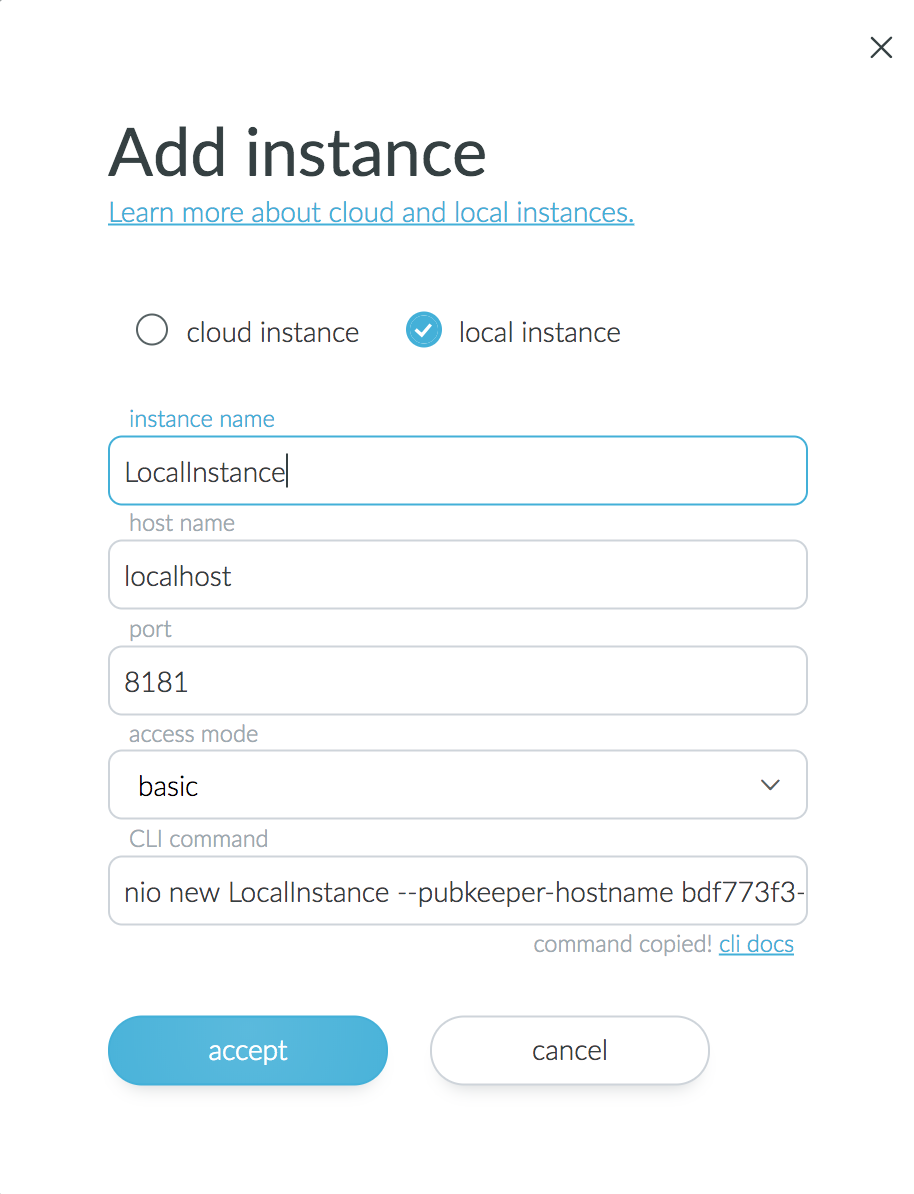
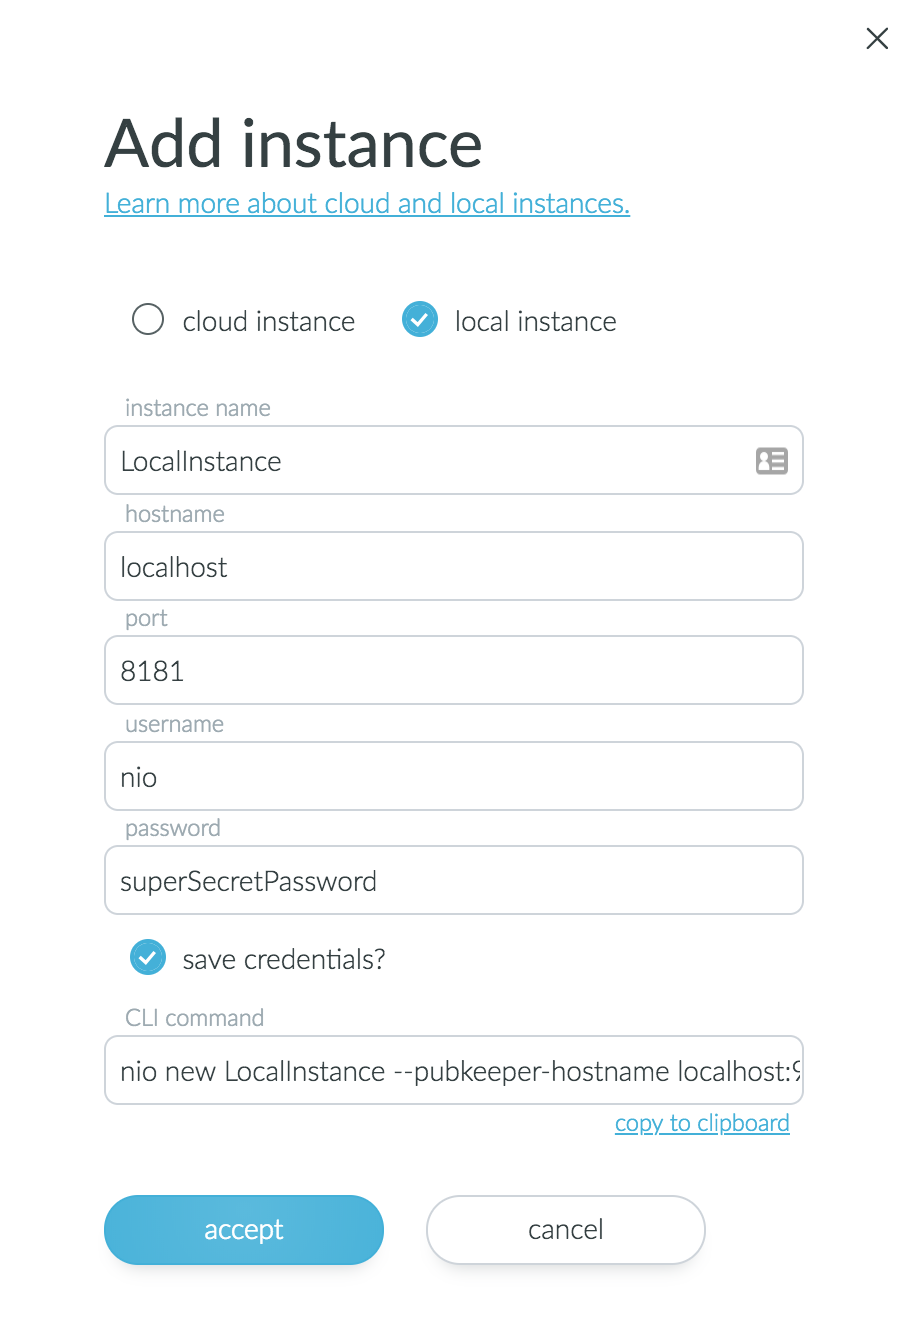
add username password section

diff --git a/docs/system-designer/reference.md b/docs/system-designer/reference.md
@@ -71,6 +71,9 @@ To enter the system context, select the system card from the grid or click the b
 1. Check the **local instance** checkbox.
 1. Complete the **add instance** modal:
   * **instance name**: enter a meaningful name.
+  * **username** and **password** will default to `Admin` `Admin`. If your instance has a different username / password (see [authentication and authorization](/api/conventions.md)), enter them here.
+  * **save credentials**: Store username / password connection information in local Storage so you don't have to enter it everytime you want to connect. 
+    > **Note** We do not store your username / password on our servers, you will be prompted to re-enter it if you view the designer from a different browser
 1. The rest of the text inputs will be pre-filled with default values that you may edit if necessary.
 1. Click **accept**.
 
@@ -79,6 +82,10 @@ To enter the system context, select the system card from the grid or click the b
 > **[info] Instance names**
 >
 > Instance names cannot contain spaces or underscores.
+
+#### Unauthorized Error
+
+If you are seeing an **Unauthorized, Invalid Credentials** error, you may have entered the wrong username / password. Review the section on [authentication and authorization](/api/conventions.md) and make sure your user and permissions are correctly set up.
 
 ### Instance edit, save, delete
 

diff --git a/docs/api/conventions.md b/docs/api/conventions.md
@@ -48,6 +48,42 @@ To use basic auth, include a base-64 encoded version of your `username:password`
 
 For examples of adding headers to a curl request, see [headers](#headers).
 
+### Adding a user example
+
+If I wanted to add a user with username `nio` and password `superSecretPassword`, first the password needs to be to base64 encoded, which gives `c3VwZXJTZWNyZXRQYXNzd29yZA==`. The `etc/users.json` file then needs to be updated with the new username / password, which would look like:
+
+```javascript
+{
+    "Admin": {
+        "password": "QWRtaW4="
+    },
+    "nio": {
+        "password": "c3VwZXJTZWNyZXRQYXNzd29yZA=="
+    }
+}
+```
+
+Next the `etc/permissions.json` file would have to be updated to give that user rwx permissions.
+
+```javascript
+{
+    "Admin": {
+        ".*": "rwx"
+    },
+    "nio": {
+        ".*": "rwx"
+    }
+}
+```
+
+After saving and restarting, you will be able to authenticate to nio by using this BasicAuth:
+```javascript
+authorization: Basic bmlvOnN1cGVyU2VjcmV0UGFzc3dvcmQ=
+```
+
+> bmlvOnN1cGVyU2VjcmV0UGFzc3dvcmQ= is nio:superSecretPassword base64 encoded
+
+
 ### <span class="allow-caps">JSON</span> Web Tokens (<span class="allow-caps">JWT</span>)
 
 When using JSON Web Tokens (JWT), first obtain an access token, and then include it in the header.

diff --git a/docs/cli/users.md b/docs/cli/users.md
@@ -1,0 +1,55 @@
+# User Management
+
+nio uses BasicAuth to authenticate to all of it's endpoints. For more information on nio authentication see [Authentication and authorization](/api/conventions.md)
+
+## Adding a user
+
+```bash
+nio add_user <username> <password>
+```
+
+Creates a new user with the provided password to authenticate to nio with. 
+
+### Example
+```bash
+nio add_user nio superSecretPassword
+```
+
+You should see the output:
+```bash
+Adding user: nio
+Adding permissions for user: nio
+```
+
+After running this command you will be able to authenticate to nio by using this BasicAuth:
+```javascript
+authorization: Basic bmlvOnN1cGVyU2VjcmV0UGFzc3dvcmQ=
+```
+
+> bmlvOnN1cGVyU2VjcmV0UGFzc3dvcmQ= is nio:superSecretPassword base64 encoded
+
+---
+
+## Removing a user
+
+```bash
+nio remove_user <username>
+```
+
+Removes the user from having the ability to authenticate with nio.
+
+### Example
+```bash
+nio remove_user olduser
+```
+
+After running this you should see:
+
+```bash
+Removing user: olduser
+Removing permissions for user: olduser
+```
+
+---
+
+

diff --git a/docs/SUMMARY.md b/docs/SUMMARY.md
@@ -64,6 +64,7 @@
   * [Config](/cli/config.md)
   * [Command](/cli/command.md)
   * [Clone Services](/cli/clone-services.md)
+  * [Users](/cli/users.md)
   * [Shutdown](/cli/shutdown.md)
   * [Changelog](/cli/changelog.md)
 * [Deploy nio](/deployment/README.md)
